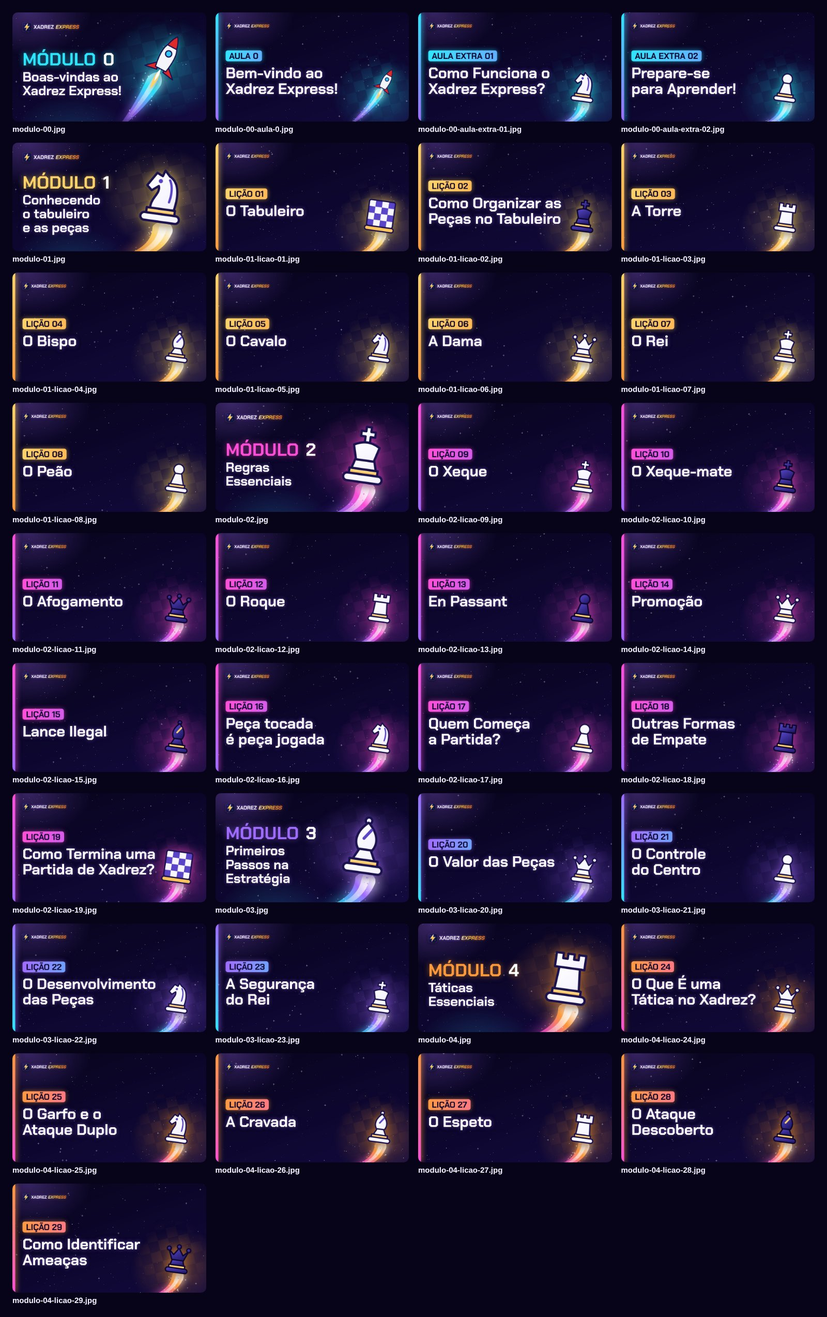
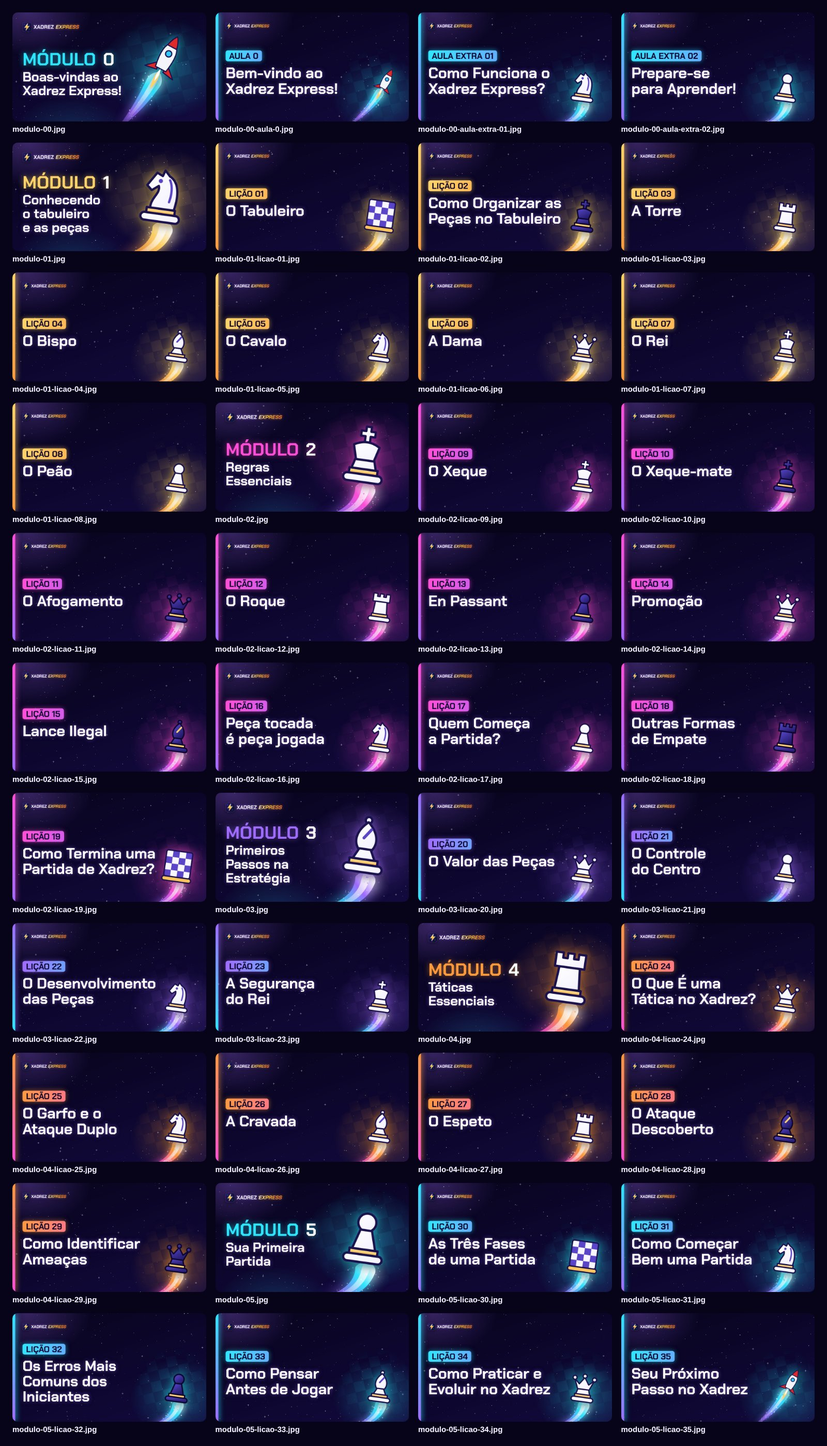
Capas do Módulo 5 e das lições 30 a 35
Claude-Session: https://claude.ai/code/session_01TiCEz9v6sPBGKMhfiJviFX

diff --git a/capas/lista.js b/capas/lista.js
@@ -78,4 +78,17 @@ module.exports = [
       { rotulo: 'Lição 29', titulo: 'Como Identificar Ameaças', peca: 'bq' },
     ],
   },
+  {
+    numero: '5',
+    titulo: 'Sua Primeira Partida',
+    peca: 'wp',
+    aulas: [
+      { rotulo: 'Lição 30', titulo: 'As Três Fases de uma Partida', peca: 'tabuleiro' },
+      { rotulo: 'Lição 31', titulo: 'Como Começar Bem uma Partida', peca: 'wn' },
+      { rotulo: 'Lição 32', titulo: 'Os Erros Mais Comuns dos Iniciantes', peca: 'bp' },
+      { rotulo: 'Lição 33', titulo: 'Como Pensar Antes de Jogar', peca: 'wb' },
+      { rotulo: 'Lição 34', titulo: 'Como Praticar e Evoluir no Xadrez', peca: 'wq' },
+      { rotulo: 'Lição 35', titulo: 'Seu Próximo Passo no Xadrez', peca: 'foguete' },
+    ],
+  },
 ];
